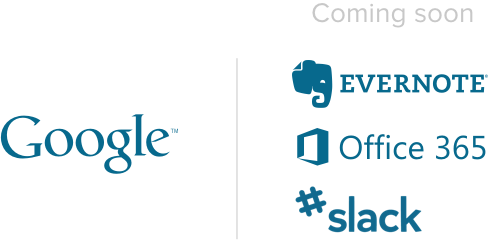
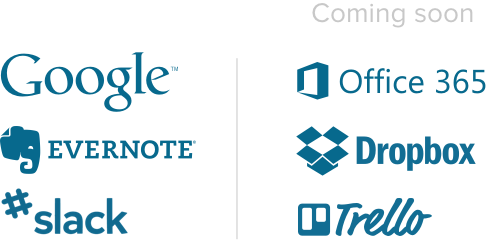
- added notification for new integrations

diff --git a/app/styles/main.css b/app/styles/main.css
@@ -371,3 +371,17 @@ section,
 #prefinery_iframe {
   padding-right: 0 !important;
 }
+
+/* notification */
+
+.notification {
+  background-color: #F1BC32;
+  background-color: rgba(241,188,50,.15);
+  padding: 24px 0;
+  text-align: center;
+}
+.notification img {
+  display: inline;
+  vertical-align: middle;
+  margin: 0 4px;
+}
